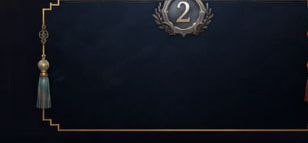
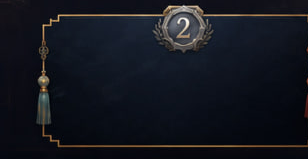
Add files via upload

diff --git a/index.html b/index.html
@@ -489,7 +489,7 @@ function Dashboard({ profile, labelRows, onLabelsChanged, siteTexts, onTextsChan
             <div className="rank3Row pt-3">
               {top3.map((row,i)=>{
                 const rankNum = i+1;
-                const imgFile = rankNum===1 ? "rank1-card.png" : rankNum===2 ? "rank2-card.png" : "rank3-card.png";
+                const imgFile = rankNum===1 ? (siteTexts.rank1_card_url || "rank1-card.png") : rankNum===2 ? (siteTexts.rank2_card_url || "rank2-card.png") : (siteTexts.rank3_card_url || "rank3-card.png");
                 return (
                   <div key={row.key} className={`rankCard rank${rankNum}`} onClick={()=>setDetailOwner(row.key)} style={{cursor:"pointer"}}>
                     <img className="rankImage" src={imgFile} alt={`${rankNum}등`} />
@@ -1105,12 +1105,29 @@ function SiteTextManager({ siteTexts, onClose, onChanged }) {
               </div>
               {uploadingKey==="bg_image_url" && <div style={{color:C.sub}} className="text-[11px] mt-1">처리 중...</div>}
             </Field>
-            <Field label="TOP3 카드 틀 이미지 (PC 화면용, 1280x264 권장)">
+            <div style={{color:C.sub,background:"#00000044",border:`1px solid ${C.border}`}} className="text-[11px] rounded-lg px-3 py-2 mb-1">
+              권장 비율 — 1등: 약 1.8:1 (예: 540x300px 이상) · 2등/3등: 약 2:1 (예: 600x300px 이상). 정확히 안 맞아도 자동으로 늘어나서 나오니 너무 세로로 긴 사진만 피해주세요.
+            </div>
+            <Field label="1등 카드 이미지">
               <div className="flex items-center gap-2">
-                <input type="file" accept="image/*" onChange={e=>uploadPoster(e.target.files[0], "top3_frame_url")} disabled={uploadingKey==="top3_frame_url"} />
-                <button onClick={()=>resetPoster("top3_frame_url")} disabled={uploadingKey==="top3_frame_url"} style={{color:C.sub,border:`1px solid ${C.border}`}} className="text-[11px] font-semibold px-2.5 py-1.5 rounded-full flex-shrink-0">기본으로</button>
+                <input type="file" accept="image/*" onChange={e=>uploadPoster(e.target.files[0], "rank1_card_url")} disabled={uploadingKey==="rank1_card_url"} />
+                <button onClick={()=>resetPoster("rank1_card_url")} disabled={uploadingKey==="rank1_card_url"} style={{color:C.sub,border:`1px solid ${C.border}`}} className="text-[11px] font-semibold px-2.5 py-1.5 rounded-full flex-shrink-0">기본으로</button>
               </div>
-              {uploadingKey==="top3_frame_url" && <div style={{color:C.sub}} className="text-[11px] mt-1">처리 중...</div>}
+              {uploadingKey==="rank1_card_url" && <div style={{color:C.sub}} className="text-[11px] mt-1">처리 중...</div>}
+            </Field>
+            <Field label="2등 카드 이미지">
+              <div className="flex items-center gap-2">
+                <input type="file" accept="image/*" onChange={e=>uploadPoster(e.target.files[0], "rank2_card_url")} disabled={uploadingKey==="rank2_card_url"} />
+                <button onClick={()=>resetPoster("rank2_card_url")} disabled={uploadingKey==="rank2_card_url"} style={{color:C.sub,border:`1px solid ${C.border}`}} className="text-[11px] font-semibold px-2.5 py-1.5 rounded-full flex-shrink-0">기본으로</button>
+              </div>
+              {uploadingKey==="rank2_card_url" && <div style={{color:C.sub}} className="text-[11px] mt-1">처리 중...</div>}
+            </Field>
+            <Field label="3등 카드 이미지">
+              <div className="flex items-center gap-2">
+                <input type="file" accept="image/*" onChange={e=>uploadPoster(e.target.files[0], "rank3_card_url")} disabled={uploadingKey==="rank3_card_url"} />
+                <button onClick={()=>resetPoster("rank3_card_url")} disabled={uploadingKey==="rank3_card_url"} style={{color:C.sub,border:`1px solid ${C.border}`}} className="text-[11px] font-semibold px-2.5 py-1.5 rounded-full flex-shrink-0">기본으로</button>
+              </div>
+              {uploadingKey==="rank3_card_url" && <div style={{color:C.sub}} className="text-[11px] mt-1">처리 중...</div>}
             </Field>
           </div>
         </div>